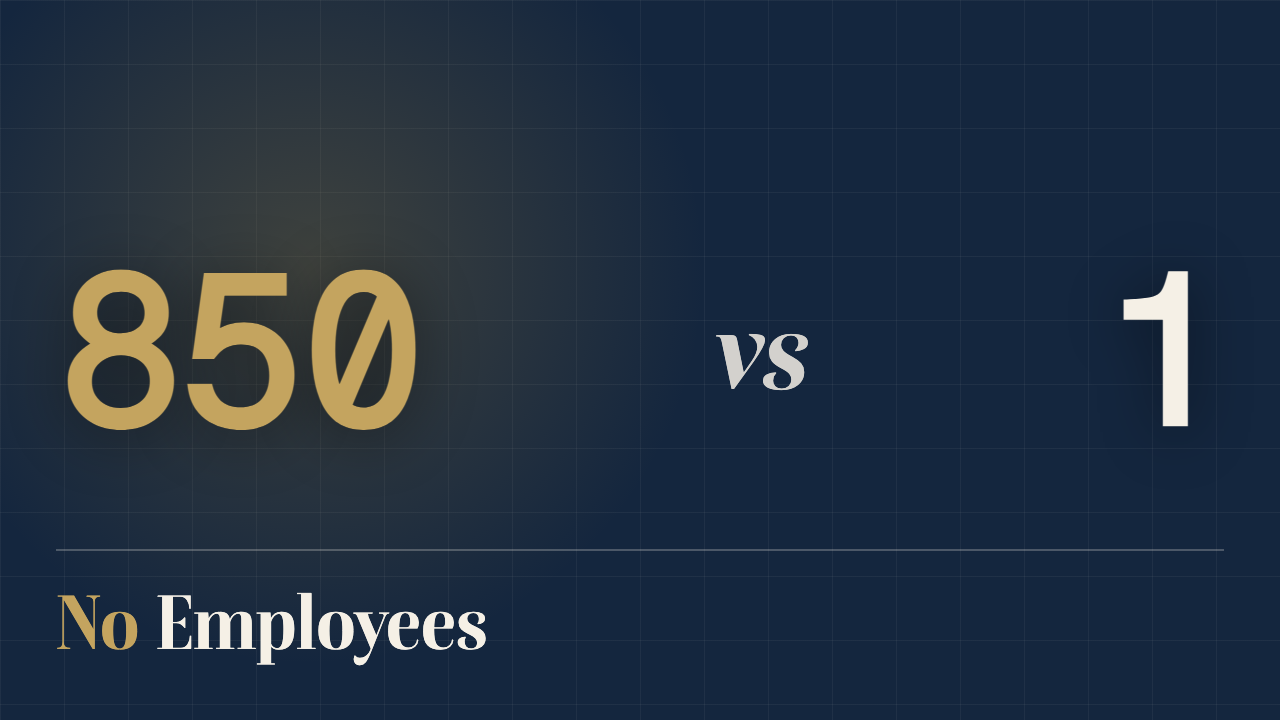
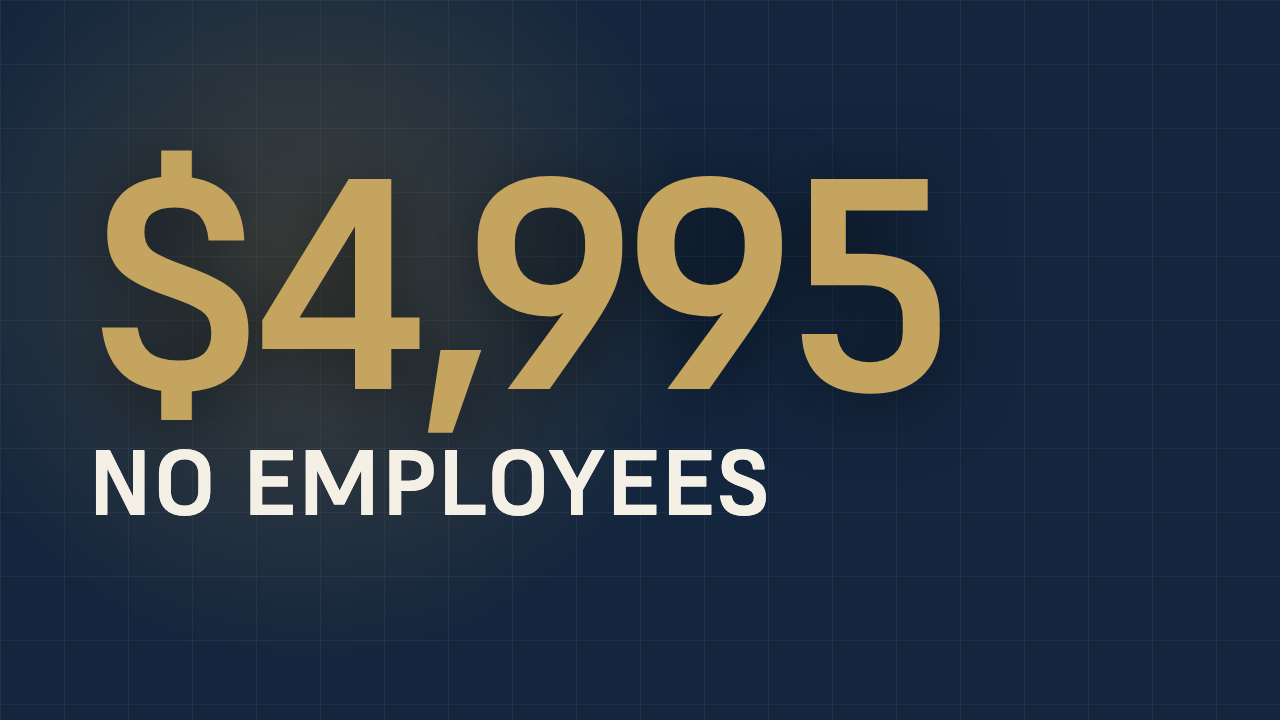
thumbnails: one hero number + interpreting text (rubric amendments A1-A6)
Synthesised two external data-video rubrics into docs/thumbnail-rubric.md as
amendments rather than a replacement, so the existing rule numbering survives.
Rejected the third (glowing brains, AI humanoids, futuristic towers) as the
stock-AI imagery the other two score zero and brand/brand.md bans.

A1 is the one that matters: one hero number, not two. Every OE thumbnail ever
made puts two figures up and asks for a comparison -- $5.9B vs $2K, $11B vs
$500, 850 vs 1 -- and a comparison costs time nobody spends at feed size. The
split/versus/numbers variants violate this by construction and are now legacy.

A2: text interprets rather than labels. "GO TO VOICEMAIL", not "ELEVENLABS".

A3 supersedes rule 3: faces are optional and usually wrong for this register.
Rule 3 was general-audience creator advice that fought the documentary voice,
and it was the sole reason thumbnails needed a scene-sourcing step nobody ever
built.

New `hero` variant renders it: one figure scaled to its digit count so a short
number still owns the frame, thick sans 800 -- which rule 2 has always required
and which no text variant honoured, split and title both using the Didone the
rubric warns fails the thin-stroke test.

Four drafts re-cut in docs/thumbnail-drafts/. All pass check_thumbnail.py.
Numbers from each script.json's approved options; EP002's 62% comes from its
own title_options.

Not enforced: the 50MB/4K claim in both sources is unverified against YouTube's
[…]

Changed region(s): [[0.0312, 0.1833, 0.75, 0.7333], [0.0312, 0.825, 0.375, 0.9167], [0.875, 0.3667, 0.9375, 0.6111]]

diff --git a/studio/remotion/src/ThumbnailComposition.tsx b/studio/remotion/src/ThumbnailComposition.tsx
@@ -18,7 +18,7 @@ export type ThumbnailData = {
   bigLabel?: string;    // actor under the big number, e.g. "ACCENTURE"
   smallLabel?: string;  // actor under the small number, e.g. "YOU"
   rightGold?: boolean;  // split variant: gold right panel instead of paper
-  variant?: 'numbers' | 'title' | 'versus' | 'split' | 'photo'; // numbers = stacked hierarchy; title = short title card; versus = equal-weight numbers + big divider
+  variant?: 'hero' | 'numbers' | 'title' | 'versus' | 'split' | 'photo'; // hero = ONE number + interpreting text (preferred); numbers = stacked hierarchy; title = short title card; versus = equal-weight numbers + big divider
   accentColor?: string; // override goldBright (test punchier accents without leaving the family)
   big: string;          // the hero number, e.g. "$5.9B"
   small: string;        // the counter number, e.g. "$100"
@@ -36,6 +36,64 @@ export type ThumbnailData = {
 // except `photo` hardcoded an "OE." mark into that exact corner and defaulted
 // the kicker to "OPERATOR BLUEPRINT · № 001" — a wrong episode number for every
 // episode after the first. Both are now opt-in and off by default.
+
+/**
+ * Hero — ONE number, plus text that interprets it. Added 2026-08-10.
+ *
+ * Every previous variant puts two numbers on the canvas and asks the viewer
+ * to compare them ($5.9B vs $2K, $11B vs $500, 850 vs 1). A comparison costs
+ * time nobody spends at feed size, and the whole back catalogue does it.
+ * One figure owning the frame is the rule both current thumbnail rubrics
+ * converge on.
+ *
+ * The label INTERPRETS rather than names: "GO TO VOICEMAIL", not "ELEVENLABS".
+ * A bare label makes the viewer supply the meaning; interpretation hands it
+ * to them.
+ *
+ * Type is FONTS.sans at 800 because rule 2 says so and, until now, no text
+ * variant honoured it: split and title used the Didone the rubric explicitly
+ * warns "fails the thin-stroke test at 168px-wide tiles".
+ */
+const HeroVariant: React.FC<ThumbnailData> = (p) => {
+  // Scale to the digit count so a short figure still owns the frame. "$2K"
+  // at a fixed size left half the canvas dead; the rubrics want the number
+  // at roughly 35-50% of the frame regardless of how many characters it has.
+  const n = (p.big ?? '').length;
+  const heroSize = n <= 3 ? 460 : n === 4 ? 400 : n === 5 ? 350 : 300;
+  return (
+    <AbsoluteFill style={{justifyContent: 'center', paddingLeft: 88, paddingRight: 88, paddingBottom: 36}}>
+      <div
+        style={{
+          fontFamily: FONTS.sans,
+          fontWeight: 800,
+          fontSize: heroSize,
+          lineHeight: 0.88,
+          letterSpacing: '-0.035em',
+          color: p.accentColor ?? COLORS.goldBright,
+          textShadow: '0 8px 70px rgba(0,0,0,0.5)',
+        }}
+      >
+        {p.big}
+      </div>
+      {p.label ? (
+        <div
+          style={{
+            fontFamily: FONTS.sans,
+            fontWeight: 800,
+            fontSize: 92,
+            letterSpacing: '0.01em',
+            lineHeight: 1.04,
+            color: COLORS.paper,
+            marginTop: 20,
+            whiteSpace: 'nowrap', // a wrapped label reads as two ideas; keep it to 2-3 words
+          }}
+        >
+          {p.label}
+        </div>
+      ) : null}
+    </AbsoluteFill>
+  );
+};
 
 const PhotoVariant: React.FC<ThumbnailData> = (p) => (
   <AbsoluteFill>
@@ -272,6 +330,7 @@ export const Thumbnail: React.FC<ThumbnailData> = (p) => {
       </div>
       )}
 
+      {p.variant === 'hero' ? <HeroVariant {...p} /> : null}
       {p.variant === 'title' ? <TitleVariant {...p} /> : null}
       {p.variant === 'versus' ? <VersusVariant {...p} /> : null}
       {p.variant === 'split' ? <SplitVariant {...p} /> : null}

diff --git a/docs/thumbnail-rubric.md b/docs/thumbnail-rubric.md
@@ -30,6 +30,66 @@ People click videos they want to watch, not pretty images. Before opening the co
 
 Arrows/circles to direct the eye at ONE thing; red X / green ✓ only for genuine before/after episodes. Punctuation as emotion is fine. No emojis ever.
 
+## Amendments (2026-08-10) — these override the rules above where they conflict
+
+Synthesised from two external data-video thumbnail rubrics evaluated 2026-08-10. Kept only what
+both agreed on, or what one argued convincingly for this register. A third rubric built on a
+"Triple Threat" of glowing brains, AI humanoid silhouettes, and futuristic corporate buildings was
+rejected outright: that is the stock-AI imagery the other two score as a zero, and it violates the
+hype ban in `brand/brand.md`.
+
+**A1. One hero number. Not two.** *(new, and the most important)*
+
+Every OE thumbnail to date puts two figures on the canvas and asks for a comparison: `$5.9B vs
+$2K`, `$11B vs $500`, `850 vs 1`. A comparison costs time nobody spends at feed size. One figure
+should own roughly 35 to 50% of the frame; a second number halves the impact of the first. Use the
+`hero` variant in `ThumbnailComposition.tsx`. The `split`, `versus`, and `numbers` variants all
+violate this by construction and should be treated as legacy.
+
+**A2. The text interprets the number, it does not label it.** *(new)*
+
+`73%` is weak; `COSTS FELL 73%` is strong. `$500` is weak; `$500 EVERY MONTH` is strong. OE's
+existing labels are pure naming: `ACCENTURE`, `YOU`, `A MONTH`, `ELEVENLABS`. A bare label makes
+the viewer supply the meaning. Interpretation hands it to them. Keep to two or three words so it
+sets on one line; a wrapped label reads as two ideas.
+
+**A3. Faces are optional here, and usually wrong.** *(supersedes rule 3)*
+
+Rule 3 mandated real scenes with expressive faces. That is general-audience advice imported from a
+creator checklist, and it fights the register the whole brand runs on. For analytical business
+video, an expressive face reads as hype and costs credibility on an episode that hedges its weak
+sources aloud. Use a human element when it genuinely interprets the number. Do not add one for
+attention. This also removes the scene-sourcing dependency that has left every episode either
+hand-made or falling back to a title card.
+
+**A4. Title and thumbnail split the work.** *(sharpens rule under Process)*
+
+Title carries the subject and mechanism; thumbnail carries the consequence, contrast, or evidence.
+If the thumbnail restates a number already in the title, it has spent the frame on nothing. EP003's
+first draft failed exactly here: title "The 5 Billion Dollar Business That Sounds Boring", thumbnail
+`$5B` and `Dull`.
+
+**A5. Variants test different hypotheses.** *(replaces "two candidates minimum")*
+
+Three variants, each changing one major variable: (A) hero metric, (B) before/after transformation,
+(C) decision or tension. Three near-identical files teach nothing.
+
+**A6. One shrink-test number.** *(resolves rule 6)*
+
+The sources give four different sizes (168x94, 160x90, 10% zoom, 5%). Standardise on **120px wide**,
+which is what `check_thumbnail.py` measures, so the doc and the checker agree.
+
+**Unverified, do not enforce yet.** Both external rubrics claim YouTube raised the desktop thumbnail
+limit to 50MB and now recommends 4K, with the mobile limit staying at 2MB, and they state it with
+different confidence. This has not been checked against YouTube's current documentation. Rule 8's
+`1280x720` stands until someone verifies it. A wrong limit inside a gate is worse than no gate.
+
+**One correction to our own numbers.** Both sources warn against a universal CTR pass/fail target
+and recommend comparing against similar videos and traffic sources on the same channel. The "4% is
+healthy" figure repeated across our docs comes from `growth-strategy.md`, not from any external
+benchmark. EP003's 0.0% on 142 impressions is bad on any reading, but 4% should be treated as an
+internal reference point rather than a threshold.
+
 ## Enforcement (added 2026-08-10)
 
 Everything above is design guidance and was, until now, self-certified. That failed. EP005 shipped
